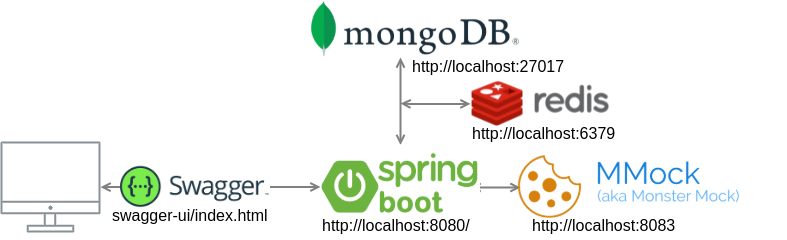
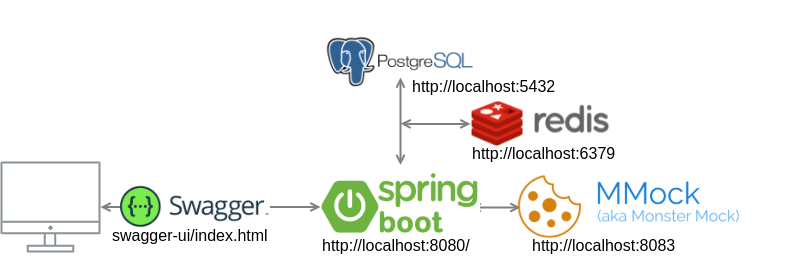
change to postgres

diff --git a/src/main/java/org/matrix/zero/service/UserService.java b/src/main/java/org/matrix/zero/service/UserService.java
@@ -1,8 +1,6 @@
 package org.matrix.zero.service;
 
 import lombok.extern.slf4j.Slf4j;
-import org.springframework.stereotype.Service;
-import org.springframework.util.CollectionUtils;
 import org.matrix.zero.dto.external.MatrixIdentityDto;
 import org.matrix.zero.dto.request.UserRequest;
 import org.matrix.zero.dto.response.UserDto;
@@ -12,6 +10,8 @@ import org.matrix.zero.exception.UserException;
 import org.matrix.zero.mapper.UserMapper;
 import org.matrix.zero.repository.UserRepository;
 import org.matrix.zero.utils.RestTemplateService;
+import org.springframework.stereotype.Service;
+import org.springframework.util.CollectionUtils;
 
 import java.util.ArrayList;
 import java.util.List;
@@ -46,7 +46,7 @@ public class UserService {
             user = userRepository.save(user);
 
             UserDto userDto = UserMapper.toUserDto(user);
-            createAdditionalData(userDto, user.getId());
+            createAdditionalData(userDto, user);
             return userDto;
         }
         log.warn("user duplicated");
@@ -102,7 +102,7 @@ public class UserService {
         userRepository.delete(user);
     }
 
-    private void getAdditionalData(UserDto userDto, String userId) {
+    private void getAdditionalData(UserDto userDto, Long userId) {
         TokenMatrix tokenMatrix = tokenMatrixService.findByUserId(userId);
         if( tokenMatrix != null ) {
             userDto.setTokenMatrix(tokenMatrix.getToken());
@@ -111,12 +111,12 @@ public class UserService {
         userDto.setMatrixIdentity(matrixIdentityDto);
     }
 
-    private void createAdditionalData(UserDto userDto, String userId) {
-        TokenMatrix tokenMatrix = tokenMatrixService.createByUserId(userId);
+    private void createAdditionalData(UserDto userDto, User user) {
+        TokenMatrix tokenMatrix = tokenMatrixService.createByUser(user);
         if( tokenMatrix != null ) {
             userDto.setTokenMatrix(tokenMatrix.getToken());
         }
-        MatrixIdentityDto matrixIdentityDto = restTemplateService.createIdentityInMatrix(userId);
+        MatrixIdentityDto matrixIdentityDto = restTemplateService.createIdentityInMatrix(user.getId());
         userDto.setMatrixIdentity(matrixIdentityDto);
     }
 }

diff --git a/src/main/java/org/matrix/zero/utils/RestTemplateService.java b/src/main/java/org/matrix/zero/utils/RestTemplateService.java
@@ -1,11 +1,11 @@
 package org.matrix.zero.utils;
 
+import org.matrix.zero.dto.external.MatrixIdentityDto;
 import org.springframework.beans.factory.annotation.Value;
 import org.springframework.http.HttpEntity;
 import org.springframework.http.ResponseEntity;
 import org.springframework.stereotype.Service;
 import org.springframework.web.client.RestTemplate;
-import org.matrix.zero.dto.external.MatrixIdentityDto;
 
 @Service
 public class RestTemplateService {
@@ -15,7 +15,7 @@ public class RestTemplateService {
 
     private RestTemplate restTemplate = new RestTemplate();
 
-    public MatrixIdentityDto getIdentityInMatrix(String userId) {
+    public MatrixIdentityDto getIdentityInMatrix(Long userId) {
         ResponseEntity<MatrixIdentityDto> response = restTemplate.getForEntity(matrixUrl + "identitymatrix/" + userId, MatrixIdentityDto.class);
         if( response.getStatusCode().is2xxSuccessful() ) {
             return response.getBody();
@@ -23,8 +23,8 @@ public class RestTemplateService {
         return null;
     }
 
-    public MatrixIdentityDto createIdentityInMatrix(String id) {
-        HttpEntity<String> request = new HttpEntity<>(id);
+    public MatrixIdentityDto createIdentityInMatrix(Long id) {
+        HttpEntity<Long> request = new HttpEntity<>(id);
         ResponseEntity<MatrixIdentityDto> response = restTemplate.postForEntity(matrixUrl + "identitymatrix/", request, MatrixIdentityDto.class);
         if( response.getStatusCode().is2xxSuccessful() ) {
             return response.getBody();

diff --git a/src/main/java/org/matrix/zero/service/TokenMatrixService.java b/src/main/java/org/matrix/zero/service/TokenMatrixService.java
@@ -1,12 +1,13 @@
 package org.matrix.zero.service;
 
 import lombok.extern.slf4j.Slf4j;
+import org.matrix.zero.entity.TokenMatrix;
+import org.matrix.zero.entity.User;
 import org.matrix.zero.repository.TokenMatrixRepository;
 import org.matrix.zero.utils.TokenUtils;
 import org.springframework.cache.annotation.CachePut;
 import org.springframework.cache.annotation.Cacheable;
 import org.springframework.stereotype.Service;
-import org.matrix.zero.entity.TokenMatrix;
 
 @Slf4j
 @Service
@@ -19,14 +20,14 @@ public class TokenMatrixService {
     }
 
     @Cacheable(value = {"tokenMatrix"}, key = "{#userId}", unless="#result == null")
-    public TokenMatrix findByUserId(String userId) {
+    public TokenMatrix findByUserId(Long userId) {
         return tokenMatrixRepository.findByUserId(userId);
     }
 
-    @CachePut(value = {"tokenMatrix"}, key = "{#userId}", unless="#result == null")
-    public TokenMatrix createByUserId(String userId) {
+    @CachePut(value = {"tokenMatrix"}, key = "{#user.id}", unless="#result == null")
+    public TokenMatrix createByUser(User user) {
         TokenMatrix tokenMatrix = new TokenMatrix();
-        tokenMatrix.setUserId(userId);
+        tokenMatrix.setUser(user);
         tokenMatrix.setToken(TokenUtils.generateToken());
         return tokenMatrixRepository.save(tokenMatrix);
     }

diff --git a/src/main/java/org/matrix/zero/entity/User.java b/src/main/java/org/matrix/zero/entity/User.java
@@ -3,20 +3,24 @@ package org.matrix.zero.entity;
 import lombok.Data;
 import lombok.NoArgsConstructor;
 import lombok.experimental.Accessors;
-import org.springframework.data.annotation.Id;
-import org.springframework.data.mongodb.core.index.Indexed;
-import org.springframework.data.mongodb.core.mapping.Document;
+
+import javax.persistence.Entity;
+import javax.persistence.GeneratedValue;
+import javax.persistence.Id;
+import javax.persistence.Table;
+import java.io.Serializable;
 
 @Data
 @NoArgsConstructor
 @Accessors(chain = true)
-@Document(collection = "user")
-public class User {
+@Entity
+@Table(name = "user_matrix")
+public class User implements Serializable {
 
     @Id
-    private String id;
+    @GeneratedValue
+    private Long id;
 
-    @Indexed(unique = true)
     private String email;
 
     private String firstName;

diff --git a/src/main/java/org/matrix/zero/entity/TokenMatrix.java b/src/main/java/org/matrix/zero/entity/TokenMatrix.java
@@ -3,21 +3,24 @@ package org.matrix.zero.entity;
 import lombok.Data;
 import lombok.NoArgsConstructor;
 import lombok.experimental.Accessors;
-import org.springframework.data.annotation.Id;
-import org.springframework.data.mongodb.core.mapping.Document;
 
+import javax.persistence.*;
 import java.io.Serializable;
 
 @Data
 @NoArgsConstructor
 @Accessors(chain = true)
-@Document(collection = "token_matrix")
+@Entity
+@Table(name = "token_matrix")
 public class TokenMatrix implements Serializable {
 
     @Id
-    private String id;
+    @GeneratedValue
+    private Long id;
 
     private String token;
 
-    private String userId;
+    @OneToOne(cascade = CascadeType.ALL)
+    @JoinColumn(name = "user_id", referencedColumnName = "id")
+    private User user;
 }

diff --git a/src/main/java/org/matrix/zero/controller/UserController.java b/src/main/java/org/matrix/zero/controller/UserController.java
@@ -3,13 +3,13 @@ package org.matrix.zero.controller;
 import io.swagger.annotations.ApiOperation;
 import io.swagger.annotations.ApiResponse;
 import io.swagger.annotations.ApiResponses;
+import org.matrix.zero.dto.request.UserRequest;
 import org.matrix.zero.dto.response.UserDto;
 import org.matrix.zero.exception.UserException;
 import org.matrix.zero.service.UserService;
 import org.springframework.http.HttpStatus;
 import org.springframework.http.ResponseEntity;
 import org.springframework.web.bind.annotation.*;
-import org.matrix.zero.dto.request.UserRequest;
 
 import javax.validation.Valid;
 import java.util.List;

diff --git a/src/main/java/org/matrix/zero/repository/TokenMatrixRepository.java b/src/main/java/org/matrix/zero/repository/TokenMatrixRepository.java
@@ -1,11 +1,11 @@
 package org.matrix.zero.repository;
 
-import org.springframework.data.mongodb.repository.MongoRepository;
-import org.springframework.stereotype.Repository;
 import org.matrix.zero.entity.TokenMatrix;
+import org.springframework.data.jpa.repository.JpaRepository;
+import org.springframework.stereotype.Repository;
 
 @Repository
-public interface TokenMatrixRepository extends MongoRepository<TokenMatrix, String> {
+public interface TokenMatrixRepository extends JpaRepository<TokenMatrix, Long> {
 
-    TokenMatrix findByUserId(String userId);
+    TokenMatrix findByUserId(Long userId);
 }

diff --git a/src/main/java/org/matrix/zero/repository/UserRepository.java b/src/main/java/org/matrix/zero/repository/UserRepository.java
@@ -1,11 +1,11 @@
 package org.matrix.zero.repository;
 
-import org.springframework.data.mongodb.repository.MongoRepository;
-import org.springframework.stereotype.Repository;
 import org.matrix.zero.entity.User;
+import org.springframework.data.jpa.repository.JpaRepository;
+import org.springframework.stereotype.Repository;
 
 @Repository
-public interface UserRepository extends MongoRepository<User, String> {
+public interface UserRepository extends JpaRepository<User, Long> {
 
     User findByEmail(String email);
 }

diff --git a/README.md b/README.md
@@ -3,7 +3,7 @@ Starter project which contains examples with:
 * Basic Rest CRUD examples
 * Calling external api with RestTemplate
 * Store cache in Redis
-* MongoDB
+* PostgreSQL
 * Coverage with jacoco > 80% lines covered required
 * Swagger
 
@@ -16,7 +16,7 @@ Starter project which contains examples with:
 - docker-compose
 
 # Start
-- Start local mongodb, redis and mmock with `docker-compose up`
+- Start local postgreSQL, redis and mmock with `docker-compose up`
 
 # Basic Diagram
 ![Basic Diagram](./docs/basic_diagram.png)
